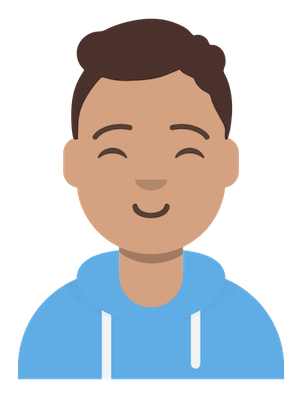
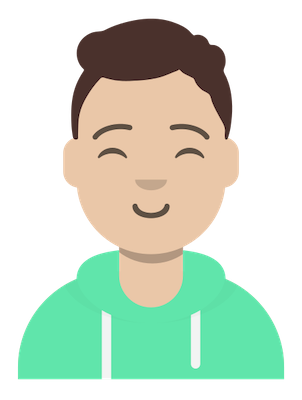
navbar, bg-image, titles, skills updated.

diff --git a/index.html b/index.html
@@ -56,7 +56,7 @@
                     <p id="about-detail"> <i class="fa-solid fa-location-pin" id="icon-dtl"></i>Istanbul, Turkey</p>
                 </div>
                 <div class="col-lg-6 col-md-12" id="img-col">
-                    <img id="avatar-img" src="images/avatar3.png" alt="avatar-img">
+                    <img id="avatar-img" src="images/avatar.png" alt="avatar-img">
                 </div>
               </div>
         </div>
